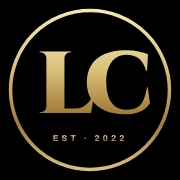
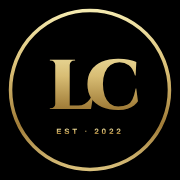
More space inside the LC ring; classic red-white-blue barber pole
Claude-Session: https://claude.ai/code/session_01GpJd7pB3kYCc1CLWZaHycz

diff --git a/assets/css/site.css b/assets/css/site.css
@@ -132,7 +132,7 @@ section[id], footer[id] { scroll-margin-top: 72px; }
 .pole-cap.bottom { border-radius: 6px 6px 14px 14px; }
 .pole-glass { position: relative; width: 44px; flex: 1; overflow: hidden; border-radius: 3px; background: #f4f0e6; box-shadow: inset 6px 0 10px rgb(0 0 0 / 25%), inset -8px 0 12px rgb(0 0 0 / 30%); }
 .pole-glass::after { content: ""; position: absolute; inset: 0; background: linear-gradient(90deg, rgb(0 0 0 / 22%), rgb(255 255 255 / 45%) 30%, transparent 50%, rgb(0 0 0 / 28%)); }
-.pole-stripes { position: absolute; inset: -60px 0 0; background: repeating-linear-gradient(150deg, #d8bd74 0 14px, #0b0b0a 14px 28px, #f1e6ab 28px 42px, #0b0b0a 42px 56px); background-size: 100% 64.7px; animation: pole 2.4s linear infinite; }
+.pole-stripes { position: absolute; inset: -60px 0 0; background: repeating-linear-gradient(150deg, #b8322a 0 14px, #f4f0e6 14px 28px, #24508f 28px 42px, #f4f0e6 42px 56px); background-size: 100% 64.7px; animation: pole 2.4s linear infinite; }
 @keyframes pole { to { background-position: 0 64.7px; } }
 .brand-mark { background-size: 100% 27.7px; }
 
@@ -452,7 +452,6 @@ dialog::backdrop { background: rgb(8 7 6 / 62%); backdrop-filter: blur(4px); }
 .hero-title .gold > span { animation: rise .9s var(--ease) both, sheen 6s ease-in-out 1s infinite; }
 @keyframes sheen { 0%, 100% { background-position: 100% 0; } 50% { background-position: 0 0; } }
 .step-n { background: var(--gold-grad); }
-.pole-glass { background: #0b0b0a; }
 .pole-cap { background: linear-gradient(90deg, #6e5426, #f1e3a3 40%, #a8843c 75%, #4d3b19); }
 @media (max-width: 420px) { .brand-logo { height: 28px; } .brand { font-size: 1.05rem; } }
 @media (prefers-reduced-motion: reduce) { .gold-band, .hero-title .gold > span, .big, .hero-facts b, .stat-n { animation: none; } }
